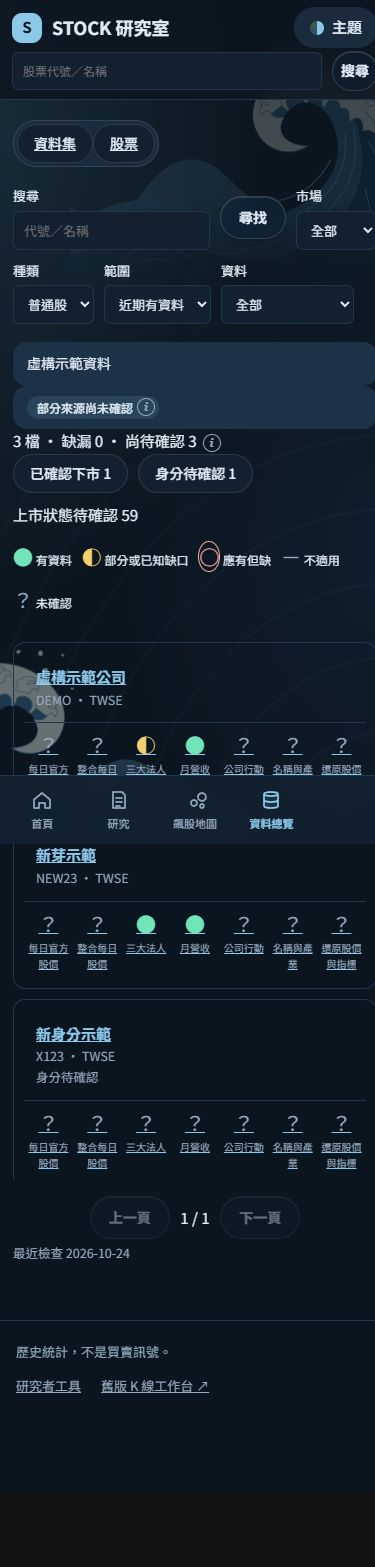
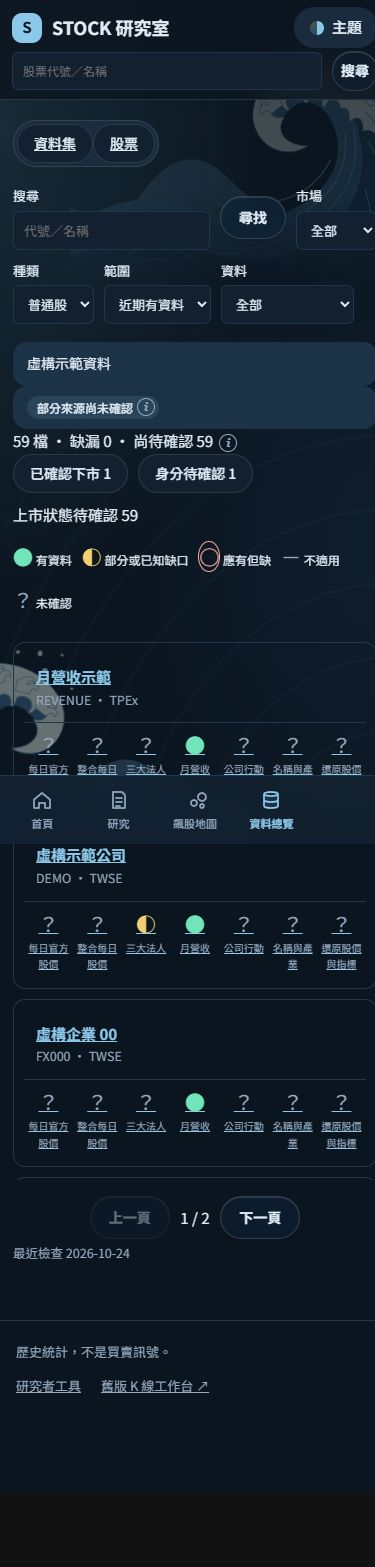
docs(web): refresh monthly recency screenshots

diff --git a/docs/en/stock-discovery-acceptance.md b/docs/en/stock-discovery-acceptance.md
@@ -22,6 +22,9 @@ included in screenshots or public build assets.
 | Counts and instrument kinds       | Filters use server totals before pagination; ETF is an explicit independent kind and is excluded by the ordinary-share default. Confirmed-delisted and unresolved counts remain visible. |
 
 The ordinary default is labelled recent observations, not confirmed listed.
+After PR-A's source-frequency review fix, the revenue-only fixture also appears
+in that default view. The four matrix/list screenshots were refreshed against
+the corrected API; month-only observations are not compared to daily strings.
 There is no reliable live delisting evidence in the present source contract;
 retention of explicitly confirmed delisted records was checked with synthetic
 data. Unknown, zero rows and confirmed absence remain different meanings.
